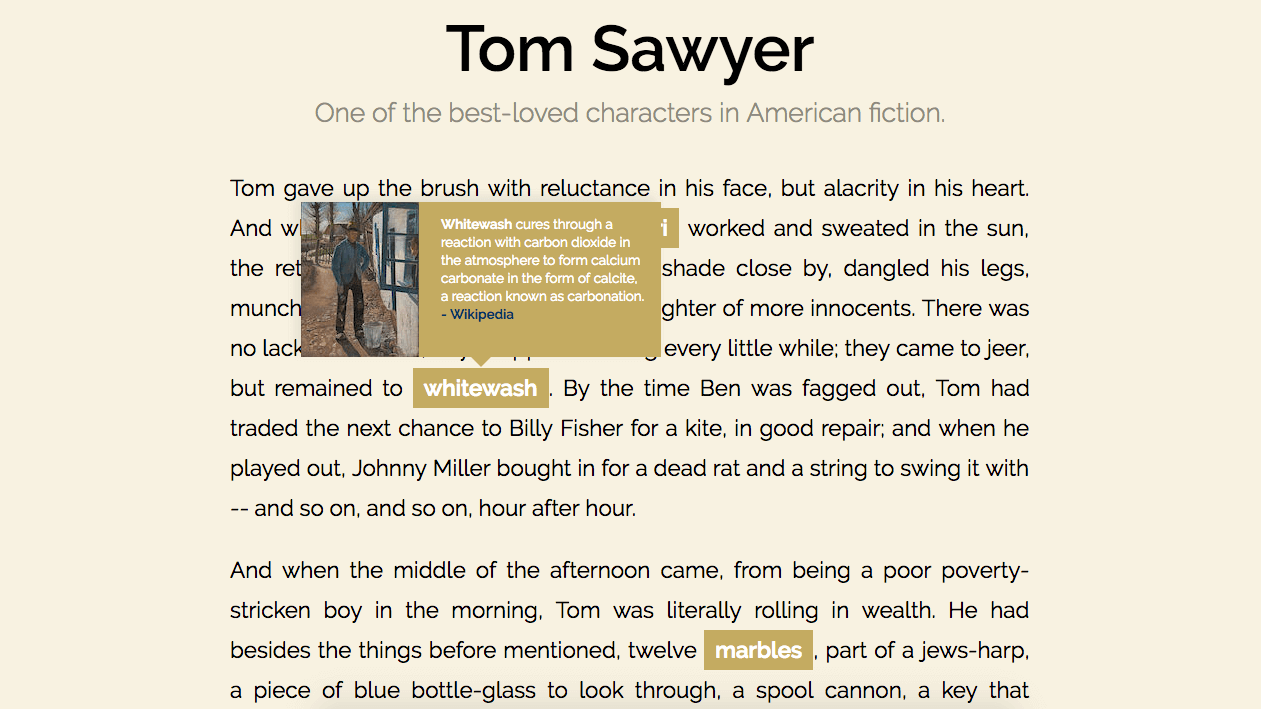
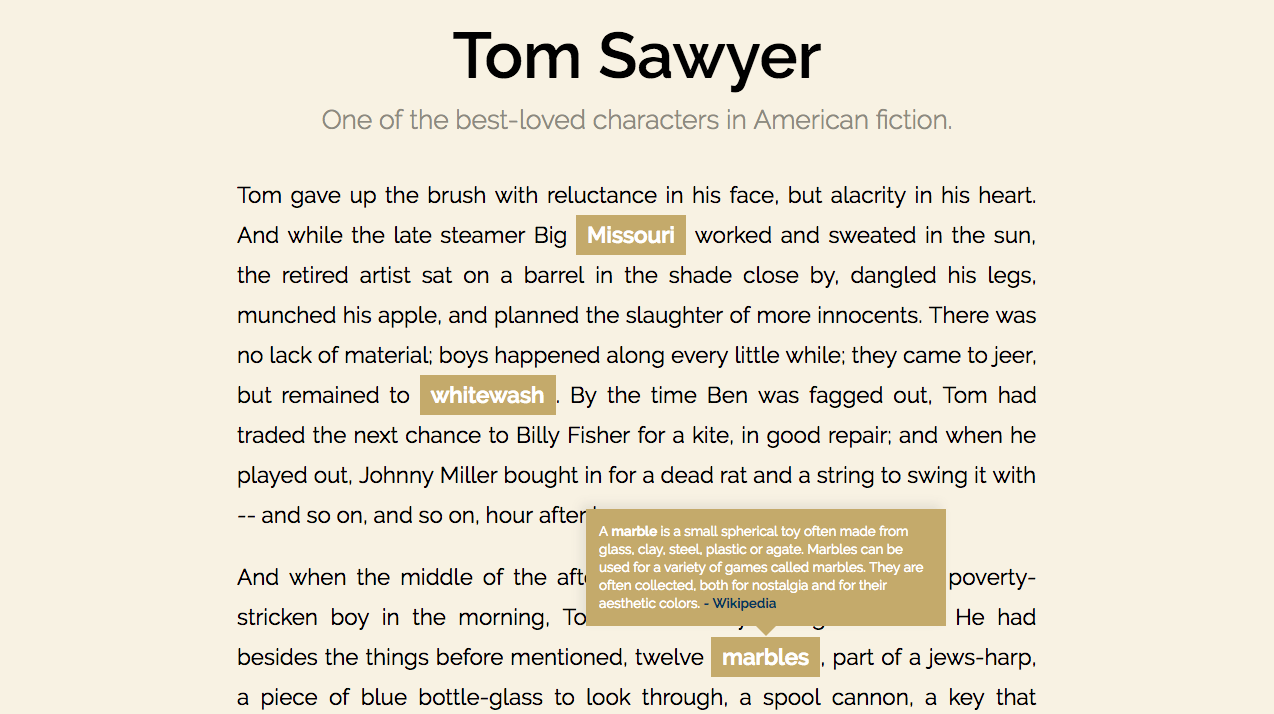
update no.12 project

Changed region(s): [[0.1856, 0.2482, 0.8351, 0.6206], [0.1856, 0.6516, 0.8351, 0.9929], [0.2474, 0.031, 0.7423, 0.1862]]

diff --git a/README.md b/README.md
@@ -1,32 +1,36 @@
 # 100websites
 🚀 Doing a website a day forces me to move on. 
 
-[12 - Random Creative Journal Ideas Generator (AJAX)](https://chinyi3005.github.io/100websites/12-random-inspiration-ajax/index.html)  
-Refactor the original [[08]](https://chinyi3005.github.io/100websites/08-random-inspiration) a bit of code to practice how to load JSON data using AJAX.
 
-[11 - Simple Text Slider](https://chinyi3005.github.io/100websites/11-simple-slider/index.html)  
-4 flat slides with automatic sliding motion and manual controls in jQuery.
+[13 - Pop-up tooltips in article](https://chinyi3005.github.io/100websites/13-tooltip-article)  
+A CSS3 based tooltip, hover at brown text to get extra information.  
 
-[10 - Pricing Tables](https://chinyi3005.github.io/100websites/10-pricingtable/index.html)  
+[12 - Random Creative Journal Ideas Generator](https://chinyi3005.github.io/100websites/12-random-inspiration-ajax/index.html)  
+Refactor the original [[08]](https://chinyi3005.github.io/100websites/08-random-inspiration) a bit of code to practice how to load JSON data using AJAX.  
+
+[11 - Simple Text Slider](https://chinyi3005.github.io/100websites/11-simple-slider)  
+4 flat slides with automatic sliding motion and manual controls in jQuery.  
+
+[10 - Pricing Tables](https://chinyi3005.github.io/100websites/10-pricingtable)  
 A common pricing table design is responsive supported using bootstrap and hover effects with jQuery.
 
-[09 - Gmail Progress Bar animation in pure CSS](https://chinyi3005.github.io/100websites/09-gmail-loading/index.html)  
+[09 - Gmail Progress Bar animation in pure CSS](https://chinyi3005.github.io/100websites/09-gmail-loading)  
 This animation is composed of 2 layers, one is given a gray border and linear-gradient background, another is to create an overlay animated progress bar using keyframes property.  
 
-[08 - Random Creative Journal Ideas Generator](https://chinyi3005.github.io/100websites/08-random-inspiration/index.html)  
+[08 - Random Creative Journal Ideas Generator](https://chinyi3005.github.io/100websites/08-random-inspiration)  
 Responsive random creative ideas generator to inspire you to write a journal. Using html, css, jQuery and bootstrap. I also learned how to return the querystring part of a URL after the question mark.
 
-[07 - A Simple FAQ: Journey to Mars](https://chinyi3005.github.io/100websites/07-faq/index.html)  
+[07 - A Simple FAQ: Journey to Mars](https://chinyi3005.github.io/100websites/07-faq)  
 I create a pure CSS triangle and use JQuery toggle() to display / hide content.
 
-[06 - Pick Your Favorite Color](https://chinyi3005.github.io/100websites/06-pickcolor/)  
+[06 - Pick Your Favorite Color](https://chinyi3005.github.io/100websites/06-pickcolor)  
 With CSS nth-child() and jQuery event handler I made a simple pick and change background color function.
 
-[05 - A simple CSS Only Sprites Boy](https://chinyi3005.github.io/100websites/05-sprites-boy/)  
+[05 - A simple CSS Only Sprites Boy](https://chinyi3005.github.io/100websites/05-sprites-boy)  
 A CSS Only animation with a simple character sprite sheet and steps() to run the frame-by-frame effect.
 
-[04 - HTML5 Blog](https://chinyi3005.github.io/100websites/04-html5blog/)  
+[04 - HTML5 Blog](https://chinyi3005.github.io/100websites/04-html5blog)  
 I build a rough sample adventrue blog for practice with the latest HTML5 and CSS3 features.
 
-[03 - Wanderlust](https://chinyi3005.github.io/100websites/03-wanderlust-font/)  
+[03 - Wanderlust](https://chinyi3005.github.io/100websites/03-wanderlust-font)  
 Use css property 'mix-blend-mode' for having a transparent text with its own background.
